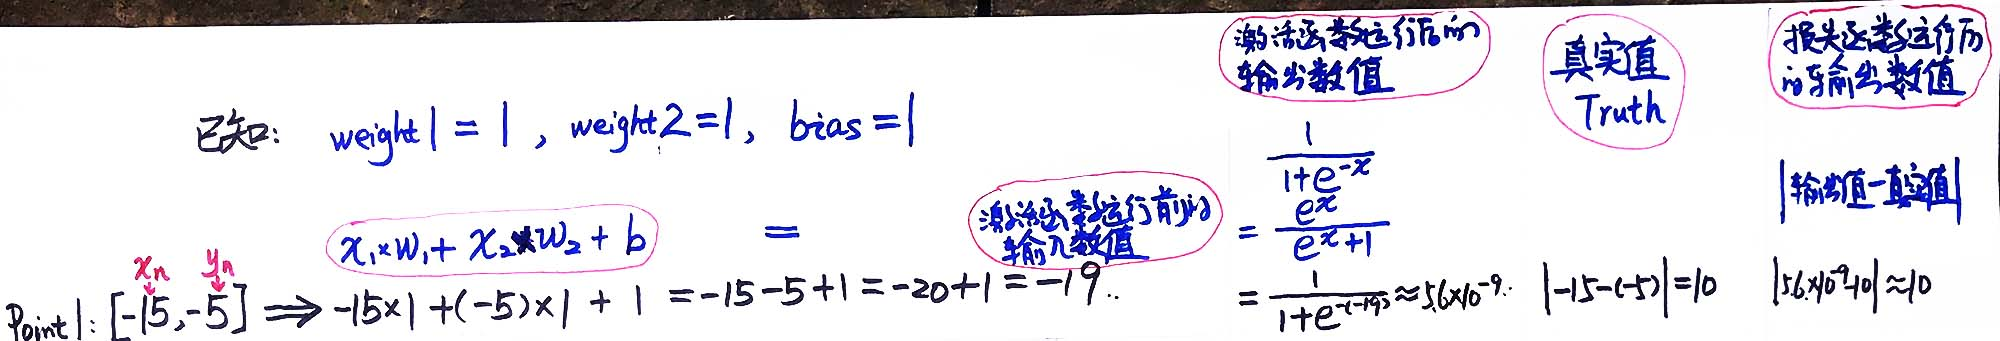
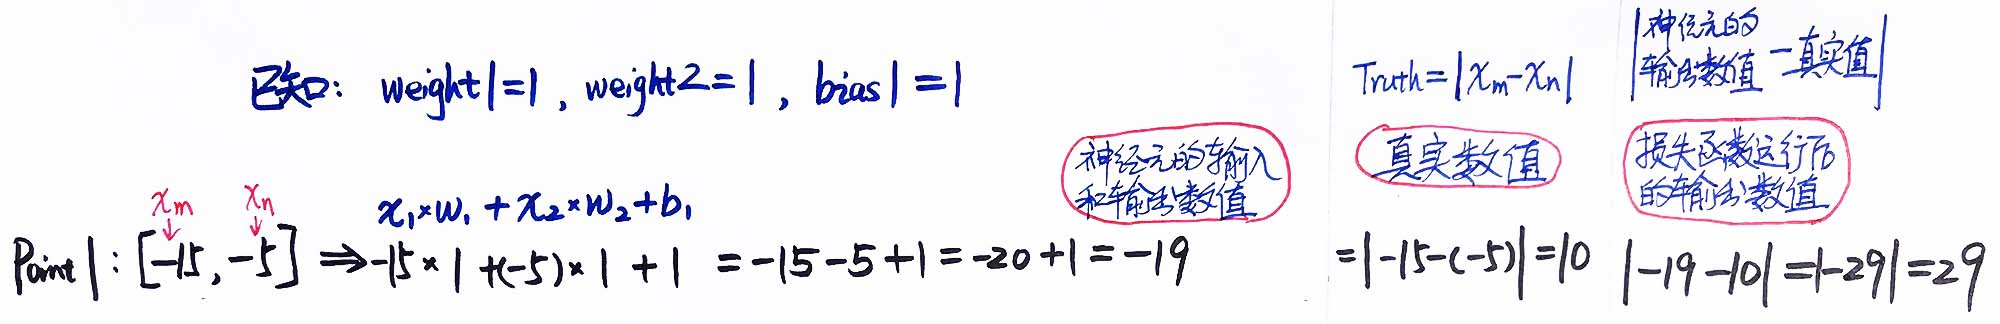
revise

diff --git a/README.md b/README.md
@@ -34,6 +34,7 @@
 
 	- [生成训练数据集合](/chapters/深度学习/用神经网络求出数轴上两点距离/生成训练数据集合.md) | [初始化权重和偏置项](/chapters/深度学习/用神经网络求出数轴上两点距离/初始化权重和偏置项.md) 
 	- [计算出单个人工神经元的输入和输出数值](/chapters/深度学习/用神经网络求出数轴上两点距离/计算出单个人工神经元的输入和输出数值.md) | [计算出单个训练数据的真实数值](/chapters/深度学习/用神经网络求出数轴上两点距离/计算出单个训练数据的真实数值.md) | [计算出单个训练数据的损失函数的输出数值](/chapters/深度学习/用神经网络求出数轴上两点距离/计算出单个训练数据的损失函数的输出数值.md)
+	- [计算出多条数据单个人工神经元的输入和输出数值](/chapters/深度学习/用神经网络求出数轴上两点距离/计算出多条数据单个人工神经元的输入和输出数值.md) | [计算出多个训练数据的真实数值](/chapters/深度学习/用神经网络求出数轴上两点距离/计算出多个训练数据的真实数值.md) | [计算出多个训练数据的损失函数的输出数值](/chapters/深度学习/用神经网络求出数轴上两点距离/计算出多个训练数据的损失函数的输出数值.md)
 	- [计算出特定的权重](/chapters/深度学习/用神经网络求出数轴上两点距离/计算出特定的权重.md) | [计算出特定的偏置项](/chapters/深度学习/用神经网络求出数轴上两点距离/计算出特定的偏置项.md) | [计算出多个权重和偏置项](/chapters/深度学习/用神经网络求出数轴上两点距离/计算出多个权重和偏置项.md) 
 
 - 判断出特定点是否在特定圆的区域内

diff --git a/chapters/深度学习/用神经网络求出数轴上两点距离/计算出多个训练数据的损失函数的输出数值.md b/chapters/深度学习/用神经网络求出数轴上两点距离/计算出多个训练数据的损失函数的输出数值.md
@@ -1,0 +1,32 @@
+# 计算出多个训练数据的损失函数的输出数值
+
+## loss = | x<sub>1</sub>w<sub>1</sub> + x<sub>2</sub>w<sub>2</sub> + b<sub>1</sub> - t |
+
+### 代入: x<sub>1</sub>=-15, y<sub>1</sub> = -5, truth = -10
+##  => loss = | - 15w<sub>1</sub> - 5w<sub>2</sub> + b<sub>1</sub> + 10 |
+### 这个问题转化为求函数　y = | - 15w<sub>1</sub> - 5w<sub>2</sub> + b<sub>1</sub> + 10 |　的最小值。 由绝对值函数的性质得出，最小值为０，下面就是用梯度下降法通过多种维度找到最低点。
+
+![](/images/深度学习/用神经网络求出数轴上两点距离/计算出多个训练数据的损失函数的输出数值/1a1.jpg)
+![](/images/深度学习/用神经网络求出数轴上两点距离/计算出多个训练数据的损失函数的输出数值/1a2.jpg)
+
+## 打开实验文件
+
+- 单击右方的[Jupyter Notebook](https://mybinder.org/v2/gh/ipython/ipython-in-depth/master?filepath=binder/Index.ipynb)，稍后在浏览器里会显示Jupyter Notebook的运行环境。
+- 在File的第一个下拉菜单“New Notebook” 的右侧箭头处选择“Python 3”，然后会显示一个新的页面
+- 把下面的这段python代码拷贝到这个页面“In [ ]:”右侧的空白栏中， 然后单击上方的按键“运行”，然后会显示出相应的图形。
+
+```python
+
+```
+
+```python
+
+```
+
+```python
+
+```
+
+## 参考文献及资料
+
+1. [CS231n Convolutional Neural Networks for Visual Recognition](https://cs231n.github.io/neural-networks-case-study/)

diff --git a/chapters/深度学习/用神经网络求出数轴上两点距离/计算出多条数据单个人工神经元的输入和输出数值.md b/chapters/深度学习/用神经网络求出数轴上两点距离/计算出多条数据单个人工神经元的输入和输出数值.md
@@ -1,7 +1,12 @@
-# 计算出多个训练数据的真实数值
+# 计算出多条数据单个人工神经元的输入和输出数值
 
-![](/images/深度学习/用神经网络求出数轴上两点距离/计算出单个训练数据的真实数值/1a1.jpg)
-![](/images/深度学习/用神经网络求出数轴上两点距离/计算出单个训练数据的真实数值/1a2.jpg)
+$$
+InputOfActivationFunction = Input_{1}Weight_{1} + Input_{2}Weight_{2} + Bias_{1}
+$$
+
+即: input = x<sub>1</sub>w<sub>1</sub> + x<sub>2</sub>w<sub>2</sub> + b<sub>1</sub>
+
+![](/images/深度学习/用神经网络求出数轴上两点距离/计算出多条数据单个人工神经元的输入和输出数值/1a1.jpg)
 
 ## 打开实验文件
 
@@ -10,12 +15,14 @@
 - 把下面的这段python代码拷贝到这个页面“In [ ]:”右侧的空白栏中， 然后单击上方的按键“运行”，然后会显示出相应的图形。
 
 ```python
-import numpy as np
+weight1 = 1
+weight2 = 1
+bias = 1
 
-def sigmoid(x):
-    return 1/(1+np.exp(-x))
+xCoordinatesOfGroup1 = [-15,-5]
+input_of_activation_function = xCoordinatesOfGroup1[0]*weight1 + xCoordinatesOfGroup1[1]*weight2 + bias
 
-print(sigmoid(-19))
+print(input_of_activation_function)
 ```
 
 ## 参考文献及资料

diff --git a/chapters/深度学习/用神经网络求出数轴上两点距离/计算出多个训练数据的真实数值.md b/chapters/深度学习/用神经网络求出数轴上两点距离/计算出多个训练数据的真实数值.md
@@ -1,7 +1,7 @@
-# 计算出多条数据单个人工神经元的激活函数运行后的输出数值
+# 计算出多个训练数据的真实数值
 
-![](/images/深度学习/判断出特定点是否在特定圆的区域内/计算出多条数据单个人工神经元的激活函数运行后的输出数值/1a1.jpg)
-![](/images/深度学习/判断出特定点是否在特定圆的区域内/计算出多条数据单个人工神经元的激活函数运行后的输出数值/1a2.jpg)
+![](/images/深度学习/用神经网络求出数轴上两点距离/计算出多个训练数据的真实数值/1a1.jpg)
+![](/images/深度学习/用神经网络求出数轴上两点距离/计算出多个训练数据的真实数值/1a2.jpg)
 
 ## 打开实验文件
 
@@ -16,23 +16,6 @@ def sigmoid(x):
     return 1/(1+np.exp(-x))
 
 print(sigmoid(-19))
-print(sigmoid(-10))
-print(sigmoid(-19))
-print(sigmoid(-15))
-print(sigmoid(-9))
-print(sigmoid(-5))
-print(sigmoid(1))
-print(sigmoid(11))
-print(sigmoid(21))
-print(sigmoid(31))
-```
-
-```python
-
-```
-
-```python
-
 ```
 
 ## 参考文献及资料

diff --git a/chapters/深度学习/判断出特定点是否在特定圆的区域内/计算出单个训练数据的真实数值.md b/chapters/深度学习/判断出特定点是否在特定圆的区域内/计算出单个训练数据的真实数值.md
@@ -1,8 +1,9 @@
 # 计算出单个训练数据的真实数值
 
-## truth = -15-(-5) = -15+5 = -10
+## truth1 = -15-(-5) = -15+5 = -10
 
 ![](/images/深度学习/用神经网络求出数轴上两点距离/计算出单个训练数据的真实数值/1a1.jpg)
+![](/images/深度学习/用神经网络求出数轴上两点距离/计算出单个训练数据的真实数值/1a2.jpg)
 
 ## 打开实验文件
 
